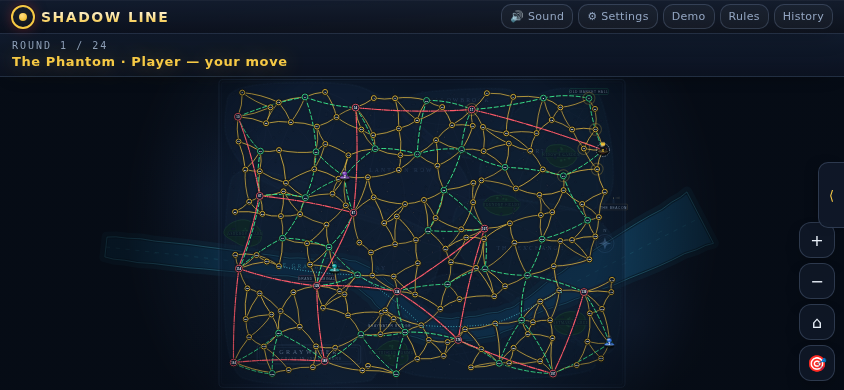
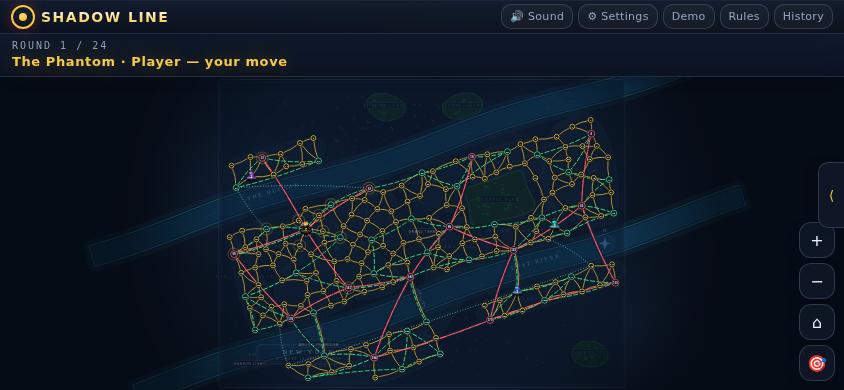
chore(map): New York branding, README, screenshots, HANDOFF
Title/manifest/tagline now read New York; README documents both boards
and the per-board ticket allocations; screenshots regenerated from the
NYC board. Verified: 4000-game sim on both maps, 30/30 Playwright specs.

Claude-Session: https://claude.ai/code/session_01JjrPDo9jkcMGLPdyk47JcQ

Changed region(s): [[0.2156, 0.2154, 0.8318, 0.9846], [0.7393, 0.1846, 0.7701, 0.2462], [0.8009, 0.4923, 0.8318, 0.5231]]

diff --git a/index.html b/index.html
@@ -3,7 +3,7 @@
 <head>
 <meta charset="UTF-8">
 <meta name="viewport" content="width=device-width, initial-scale=1.0, user-scalable=no">
-<title>Shadow Line — Hunt the Phantom Across Graywater</title>
+<title>Shadow Line — Hunt the Phantom Across New York</title>
 <link rel="manifest" href="manifest.json">
 <meta name="theme-color" content="#0F1722">
 <link rel="icon" href="icons/icon-192.png">

diff --git a/HANDOFF.md b/HANDOFF.md
@@ -3,7 +3,7 @@
 Companion to `PLAN.md` (the phased roadmap). This file is updated after every
 commit so any session/model can resume with zero context loss.
 
-_Last updated: 2026-07-22 (session 2), branch `claude/work-hhvy7e`. PRs #50–#53 merged (Phases 0–4). Map visual rework done on top._
+_Last updated: 2026-07-22 (session 3), branch `claude/work-hhvy7e`. PRs #50–#54 merged. New York full redesign done on top (see GRAPH-DESIGN.md)._
 
 ## What's done
 
@@ -66,6 +66,20 @@ _Last updated: 2026-07-22 (session 2), branch `claude/work-hhvy7e`. PRs #50–#5
   The six selectable board modes were retired for this one style. All
   deterministic (fixed seed), no SVG filters on large layers, base drawn
   once — pan/zoom stays a single viewBox write.
+- **New York full redesign: DONE** (user-requested; see `GRAPH-DESIGN.md`).
+  The graph now lives in a **mapdata registry** (`mapdata.js` + generated
+  `mapdata-ny.js`); the engine reads MAPDATA (new tuning hooks
+  dblBonus/blackBonus only — rules untouched). `tools/mapgen/newyork.js`
+  generates the 199-station NYC board (horizontal Manhattan grid, Hudson +
+  Jersey pocket top, East River + Brooklyn/Queens pockets bottom, Central
+  Park, 3 bridges, 5 ferry edges; taxi never crosses water). Tuned by
+  simulation: Agents 10/9/3 tickets, 1 sprint on NY — headline 4-agent
+  Phantom win 41.5% (normal) / 51.8% (hard), degenerate endings <2%, full
+  table in GRAPH-DESIGN.md. mapart.js is geo-driven (two named rivers,
+  ferry lanes per edge, Central Park, 14 NYC districts, bridge icons,
+  landmarks); New York is the default map, **Graywater fully playable via
+  ?map=graywater** (also `--map=` in the simulator). Tagline/cartouche
+  follow the active map.
 
 ## Verified
 

diff --git a/README.md b/README.md
@@ -1,18 +1,18 @@
-# 🕵️ Shadow Line — Hunt the Phantom Across Graywater
+# 🕵️ Shadow Line — Hunt the Phantom Across New York
 
-**SHADOW LINE** is a free, installable, browser-playable hidden-movement chase game. One player is **the Phantom**, slipping through the illustrated city of Graywater in secret; up to five **agents** have 24 rounds to run him down.
+**SHADOW LINE** is a free, installable, browser-playable hidden-movement chase game set in an illustrated night-time **New York**. One player is **the Phantom**, slipping through Manhattan, Brooklyn and beyond in secret; up to five **agents** have 24 rounds to run him down. (The original fictional **Graywater** board is still included — add `?map=graywater` to the URL.)
 
 Play solo against bots, hot-seat with friends on one device, or host/join a peer-to-peer online room — no account, no server, no install required (though you can install it).
 
 <p align="center">
-  <img src="screenshots/ingame-desktop.png" alt="In-game screenshot — the illustrated Graywater map with agents, the Phantom's travel log, and the players panel" width="820">
+  <img src="screenshots/ingame-desktop.png" alt="In-game screenshot — the illustrated New York map with agents, the Phantom's travel log, and the players panel" width="820">
 </p>
 
 ---
 
 ## ✨ Highlights
 
-- 🎨 **Hand-built illustrated map** — 199 stations, 449 taxi/bus/metro/ferry connections, rendered as SVG at runtime with parchment/night-map styling, with parchment-poster and neon night board styles.
+- 🎨 **Two illustrated boards** — a 199-station night-time **New York** (Manhattan grid, the Hudson and East River, Central Park, bridges and ferries) and the original fictional **Graywater**, both fully generated original art rendered as SVG at runtime.
 - 🤖 **Bots with real strategy** — three difficulty tiers (easy / normal / hard) for either role, from random-legal moves up to hard agents that anticipate and cover the Phantom's *next-round* escape routes as a coordinated team.
 - 🧑🤝🧑 **Three ways to play** — solo vs. bots, hot-seat on one device (with an automatic "pass the device" privacy handoff), or online rooms over WebRTC.
 - 📡 **Peer-to-peer online rooms** — share a 5-letter code, no backend server, with room chat and a live activity feed.
@@ -41,11 +41,11 @@ Play solo against bots, hot-seat with friends on one device, or host/join a peer
 <table>
 <tr>
 <td width="50%"><img src="screenshots/lobby-desktop.png" alt="Lobby screen: seat setup, transport legend, and rules"></td>
-<td width="50%"><img src="screenshots/ingame-desktop.png" alt="In-game screen: the Graywater board with the turn panel and travel log"></td>
+<td width="50%"><img src="screenshots/ingame-desktop.png" alt="In-game screen: the New York board with the turn panel and travel log"></td>
 </tr>
 <tr>
 <td align="center"><sub>Lobby — set up seats, or create/join an online room</sub></td>
-<td align="center"><sub>In-game — the Graywater board, turn panel, and travel log</sub></td>
+<td align="center"><sub>In-game — the New York board, turn panel, and travel log</sub></td>
 </tr>
 <tr>
 <td colspan="2"><img src="screenshots/ingame-mobile.png" alt="In-game screen on a phone-sized landscape viewport"></td>
@@ -69,7 +69,7 @@ Online rooms are peer-to-peer (WebRTC via [PeerJS](https://peerjs.com)) — no b
 
 - **Setup:** the lobby lets you assign each of the 6 seats (the Phantom + up to 5 agents) to a human or a bot (easy/normal/hard), or leave agent seats empty, and pick a **game mode** (Classic / Short chase / Fugitive's edge) for local games.
 - **The Phantom** moves first each round, in secret — only the ticket type he plays (taxi/bus/metro/shadow) is shown to agents. He must surface and reveal his true station on rounds **3, 8, 13, 18, and 24**.
-- **Agents** move in turn order after the Phantom, always in the open, spending real tickets (10 taxi / 8 bus / 4 metro each, standard allocation). Two agents can't share a station.
+- **Agents** move in turn order after the Phantom, always in the open, spending real tickets (per-board allocation — 10/9/3 taxi/bus/metro on New York, 10/8/4 on Graywater). Two agents can't share a station.
 - **Win conditions:** agents win instantly if one lands on the Phantom's station, or if the Phantom ever has no legal move. The Phantom wins if the round log fills to 24 without being caught, or if every agent is stuck.
 - **Shadow tickets** let the Phantom take any transport (including the river ferry) without revealing which one. **Sprint** cards let him take two hops in one round.
 - Tap/click a highlighted station to move; if it's reachable by more than one ticket type, a small chooser pops up. Drag to pan, scroll/pinch to zoom. Prefer the keyboard? Every legal move is also listed as a button in the **turn panel** — activate one to move.
@@ -117,7 +117,7 @@ Beyond color, the app now offers a **keyboard- and screen-reader-accessible way 
 
 ## 🗺️ Map data
 
-The city of Graywater is entirely original: its 199 stations and 449 taxi/bus/metro/ferry connections are produced by a deterministic, seeded map designer (`tools/mapgen/generate.js`) that lays out a planar taxi street mesh, a hub-based bus overlay, metro trunk lines, and a meandering river with a ferry line, then bakes the result into `engine.js`. The artwork — background, districts, parks, the river, station badges, and route styling — is likewise original, rendered as SVG at runtime (see `buildMap()` in `map.js`). Re-run the generator with a new seed for a different city, then re-check balance with `node test/simulate.js`.
+Both boards are entirely original and produced by deterministic, seeded map designers: **New York** by `tools/mapgen/newyork.js` (stylized Manhattan grid with the Hudson and East River, borough pockets, Central Park, three East River bridges, ferry-only Hudson crossings — design, balance targets, and the final simulated numbers are documented in `GRAPH-DESIGN.md`) and **Graywater** by `tools/mapgen/generate.js`. Each bakes its graph into the `mapdata` registry; the engine reads whichever map is active (`?map=` / localStorage `sy_map`). The artwork — land, water, districts, parks, streets, blocks, landmarks, station badges — is likewise original, generated at runtime by `mapart.js`. After regenerating a board, re-check balance with `node test/simulate.js --map=<key>`.
 
 ## 🛠️ Tech notes
 